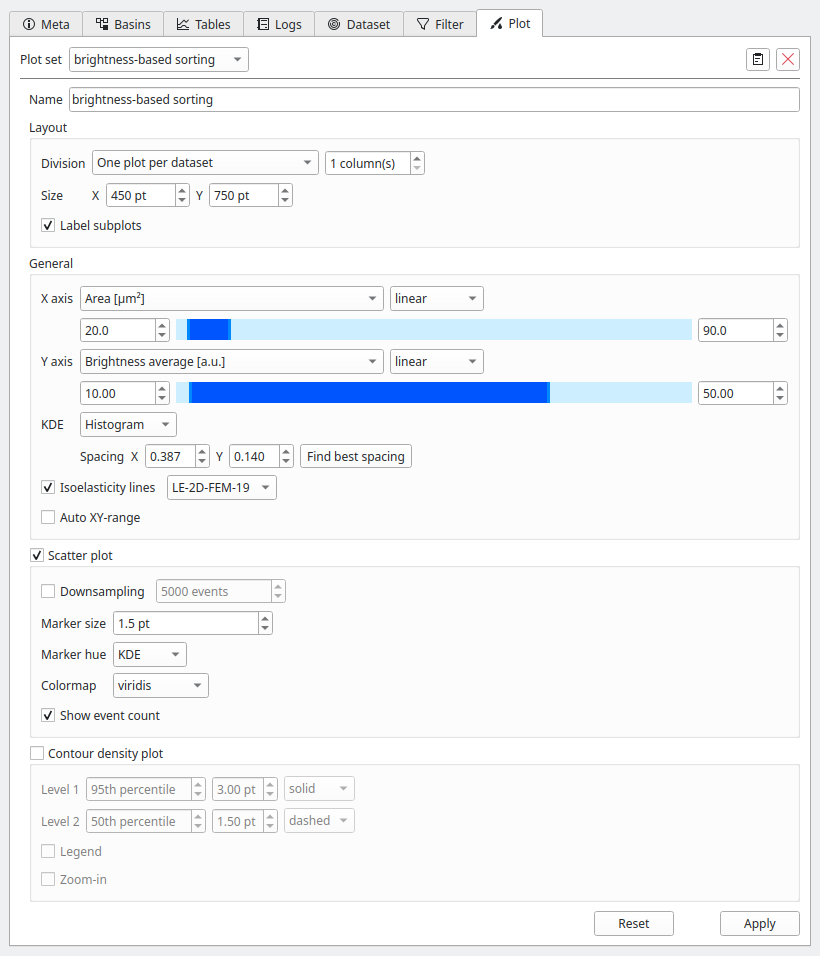
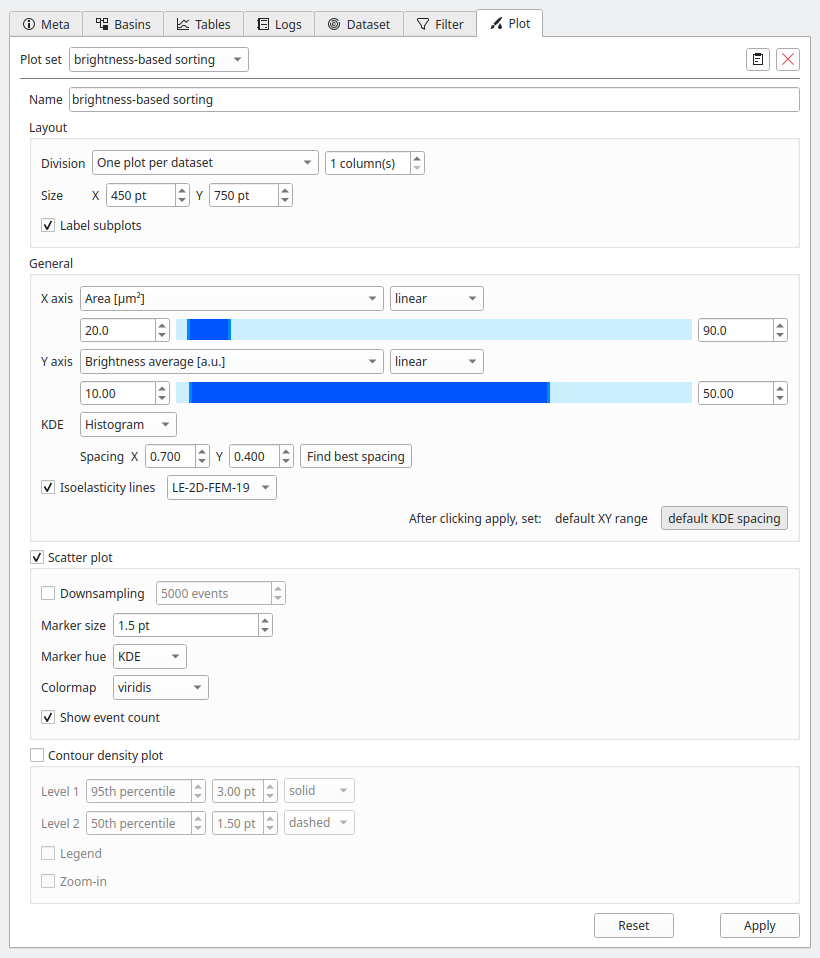
docs: update screenshots (and recipes)

diff --git a/docs/scrots/make_scrots_ui.py b/docs/scrots/make_scrots_ui.py
@@ -6,7 +6,7 @@ import pathlib
 import sys
 
 import dclab
-from PyQt6 import QtCore
+from PyQt6 import QtCore, QtTest
 from PyQt6.QtWidgets import QApplication
 from dcscope.gui.main import DCscope
 
@@ -27,6 +27,7 @@ mw.on_modify_slot(mw.pipeline.slot_ids[0])
 mw.subwindows["analysis_view"].move(200, 300)
 
 # main window
+mw.wait_for_tasks()
 mw.update()
 QApplication.processEvents(QtCore.QEventLoop.ProcessEventsFlag.AllEvents, 300)
 mw.grab().save("_ui_main.png")
@@ -49,18 +50,25 @@ mw.pp_mod_send.emit({"quickview": {
 }})
 QApplication.processEvents(QtCore.QEventLoop.ProcessEventsFlag.AllEvents, 300)
 mw.widget_quick_view.ui.toolButton_settings.toggle()
+QtTest.QTest.qWait(500)
+QApplication.processEvents(QtCore.QEventLoop.ProcessEventsFlag.AllEvents, 300)
 idx = mw.widget_quick_view.ui.comboBox_x.findData("fl3_max_ctc")
 mw.widget_quick_view.ui.comboBox_x.setCurrentIndex(idx)
 idy = mw.widget_quick_view.ui.comboBox_y.findData("fl2_max_ctc")
 mw.widget_quick_view.ui.comboBox_y.setCurrentIndex(idy)
 mw.widget_quick_view.ui.comboBox_xscale.setCurrentIndex(1)
 mw.widget_quick_view.ui.comboBox_yscale.setCurrentIndex(1)
-mw.widget_quick_view.ui.checkBox_hue.click()
+mw.widget_quick_view.ui.checkBox_hue.setChecked(True)
 mw.widget_quick_view.ui.toolButton_apply.click()
+# make sure all plotting signals are processed
+QtTest.QTest.qWait(500)
 QApplication.processEvents(QtCore.QEventLoop.ProcessEventsFlag.AllEvents, 300)
 mw.widget_quick_view.grab().save("_ui_qv_settings.png")
 mw.widget_quick_view.ui.toolButton_event.toggle()
+QtTest.QTest.qWait(500)
+QApplication.processEvents(QtCore.QEventLoop.ProcessEventsFlag.AllEvents, 300)
 mw.widget_quick_view.ui.spinBox_event.setValue(4829)
+QtTest.QTest.qWait(500)
 QApplication.processEvents(QtCore.QEventLoop.ProcessEventsFlag.AllEvents, 300)
 mw.widget_quick_view.grab().save("_ui_qv_event.png")
 # manually create a polygon filter with points from the poly file
@@ -72,6 +80,7 @@ mw.widget_quick_view.ui.lineEdit_poly.setText("CD66⁺/CD14⁻")
 mw.widget_quick_view.ui.widget_scatter.set_poly_points(pf.points)
 # show an event
 mw.widget_quick_view.ui.imageView_image_poly.show()
+QtTest.QTest.qWait(500)
 QApplication.processEvents(QtCore.QEventLoop.ProcessEventsFlag.AllEvents, 300)
 mw.widget_quick_view.grab().save("_ui_qv_poly.png")
 